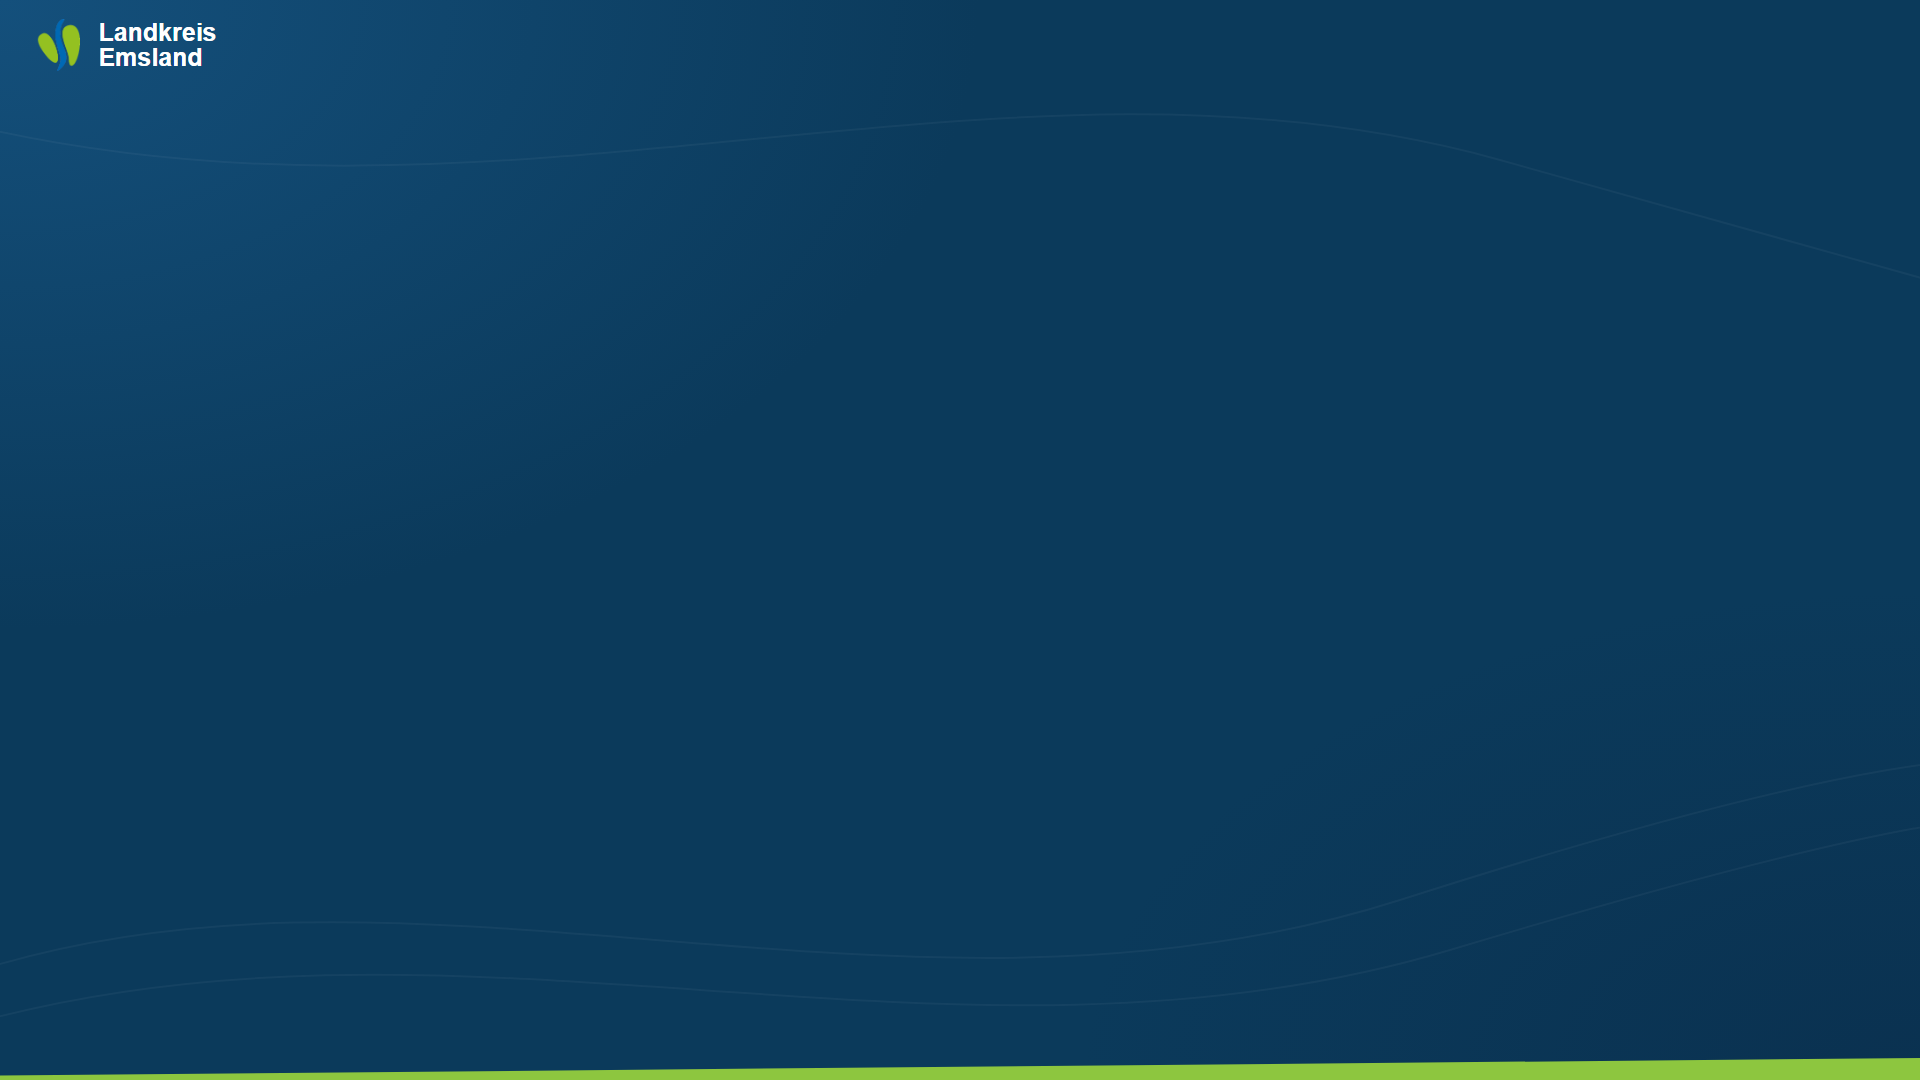
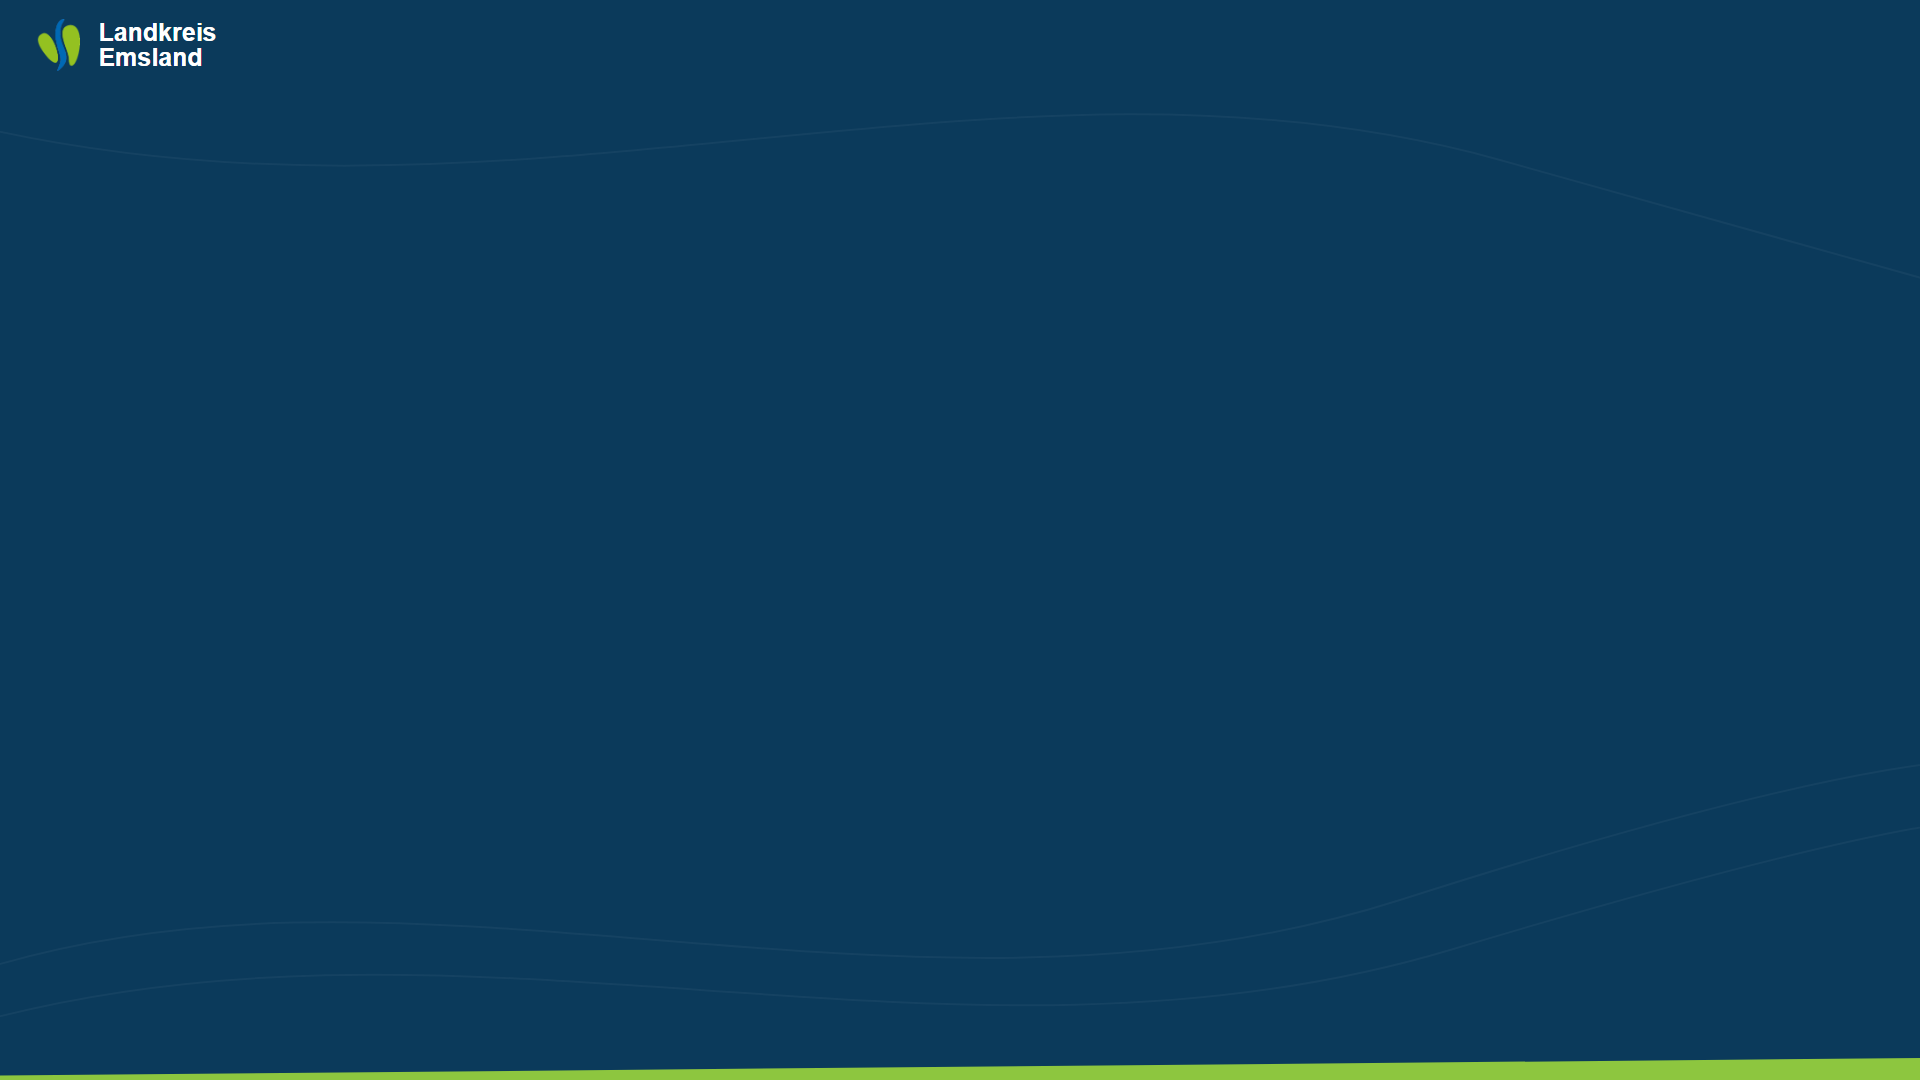
Szenen-Hintergrund: einfarbig, ohne Farbverlauf

Changed region(s): [[0.0, 0.0, 0.1562, 0.1528]]

diff --git a/tools/szenen-hintergrund.html b/tools/szenen-hintergrund.html
@@ -2,9 +2,7 @@
 <!-- Vorlage für Raumsteuerung/szenen-hintergrund.png (1920x1080): im Browser bei 1920x1080 als PNG speichern, z. B. mit Playwright. -->
 @font-face{font-family:SS3;src:local("Source Sans 3") format('woff2');font-weight:200 900}
 html,body{margin:0;width:1920px;height:1080px;overflow:hidden}
-body{position:relative;font-family:SS3,sans-serif;
- background:radial-gradient(ellipse 1400px 900px at 0% 0%,#14507C 0%,rgba(20,80,124,0) 70%),
-            radial-gradient(ellipse 1200px 700px at 100% 100%,#0A3150 0%,rgba(10,49,80,0) 70%),#0B3A5B}
+body{position:relative;font-family:SS3,sans-serif;background:#0B3A5B}
 /* dezente Linien wie Wellen, sehr schwach */
 svg.w{position:absolute;inset:0}
 .head{position:absolute;left:36px;top:18px;height:54px;display:flex;align-items:center;gap:18px;color:#fff}
